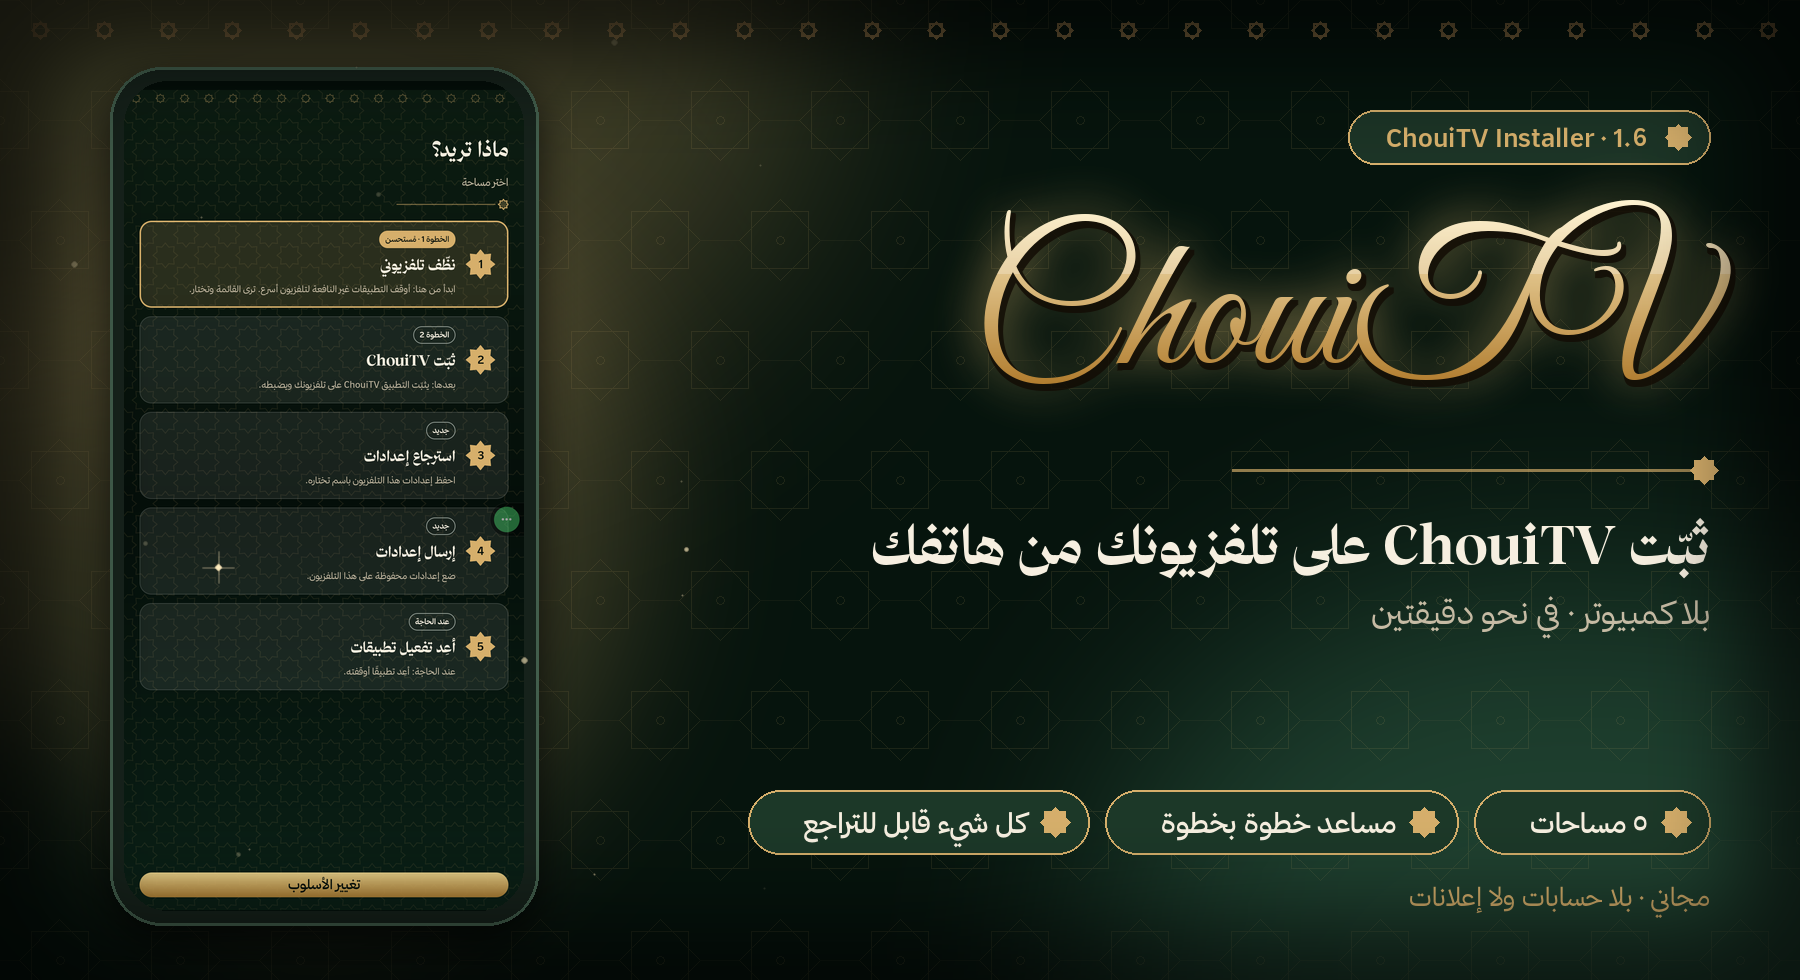
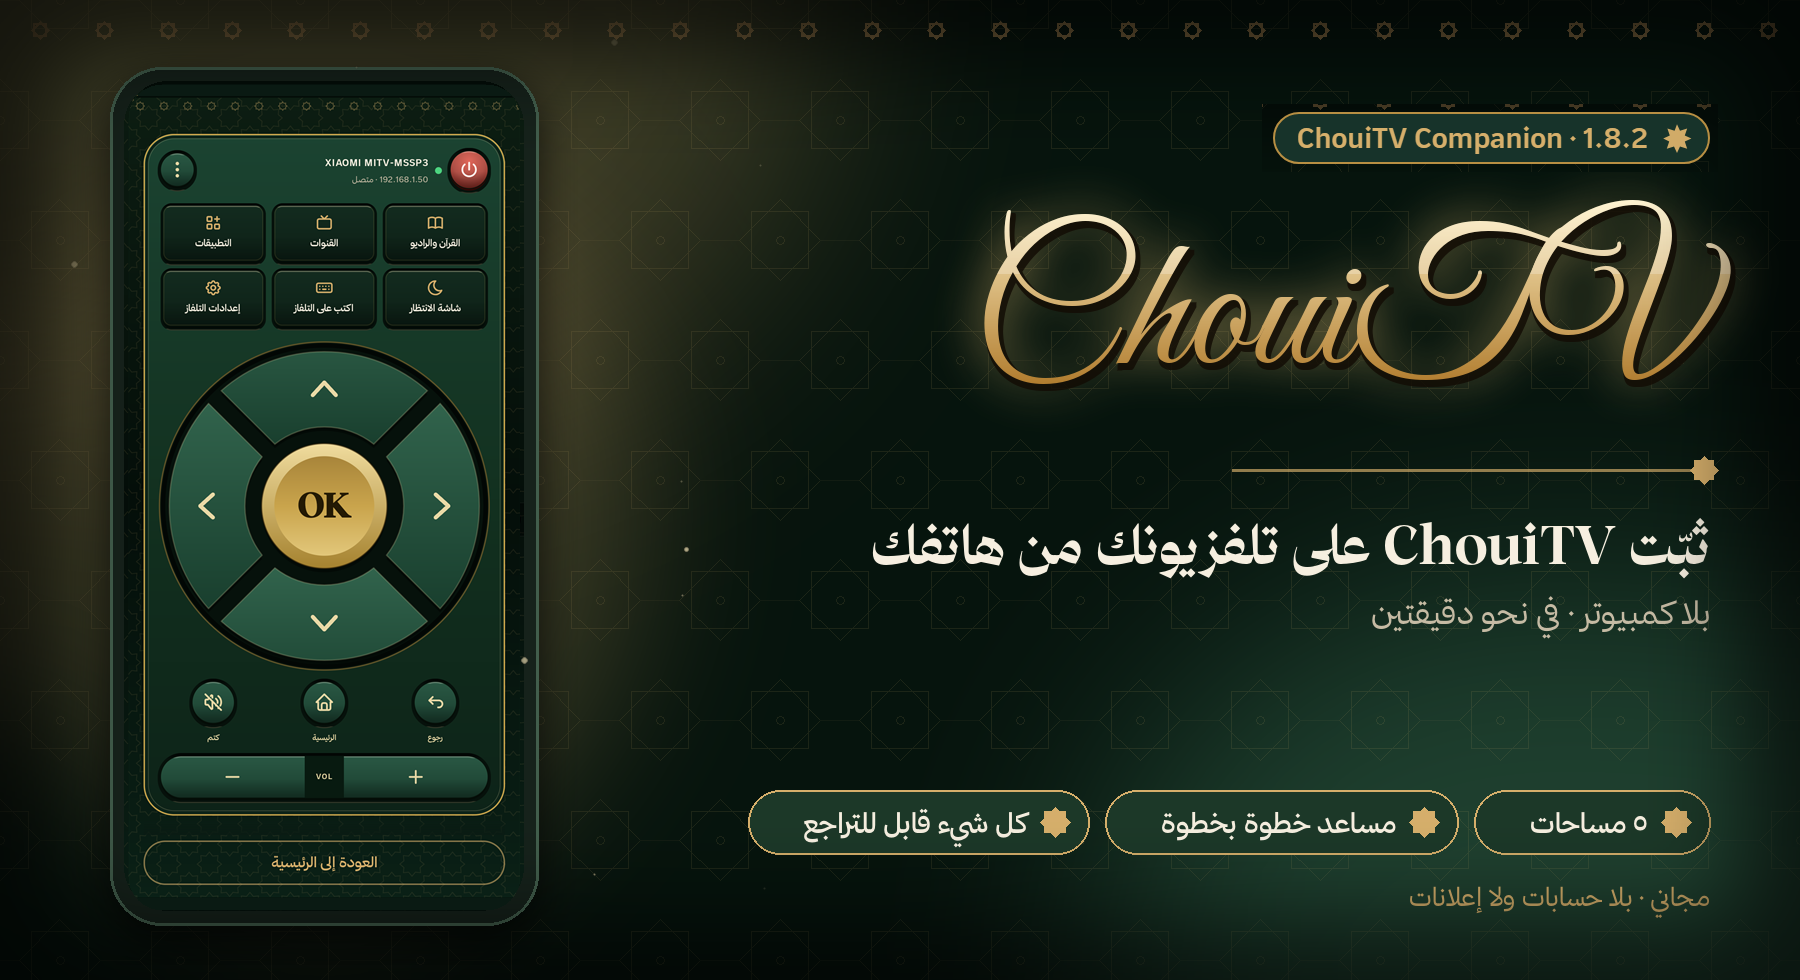
README: ChouiTV Companion name everywhere; new hero images (ar/fr/en) with the Companion pill and the real remote screenshot

Changed region(s): [[0.0622, 0.0918, 0.3111, 0.7347], [0.0622, 0.7653, 0.28, 0.9184], [0.6844, 0.0918, 0.9644, 0.1837]]

diff --git a/README.md b/README.md
@@ -1,6 +1,6 @@
-<p align="center"><img src="docs/media/logo.png" alt="ChouiTV Installer logo (Ch8TV)" width="132"></p>
+<p align="center"><img src="docs/media/logo.png" alt="ChouiTV Companion logo (Ch8TV)" width="132"></p>
 
-<p align="center"><a href="https://github.com/EMCHOUIT/ChouiTV-Installer/releases/latest/download/ChouiTV-Installer.apk"><img src="docs/media/hero-ar.png" alt="ChouiTV Installer: ثبّت ChouiTV على تلفزيونك من هاتفك" width="100%"></a></p>
+<p align="center"><a href="https://github.com/EMCHOUIT/ChouiTV-Installer/releases/latest/download/ChouiTV-Installer.apk"><img src="docs/media/hero-ar.png" alt="ChouiTV Companion: ثبّت ChouiTV على تلفزيونك من هاتفك" width="100%"></a></p>
 
 <p align="center"><b>🇲🇦 العربية</b> &nbsp;·&nbsp; <a href="README.fr.md">🇫🇷 Français</a> &nbsp;·&nbsp; <a href="README.en.md">🇬🇧 English</a></p>
 
@@ -17,7 +17,7 @@
 
 تطبيق صغير على هاتفك (**ChouiTV Companion**) يجد تلفزيونك، ويتحكّم فيه كجهاز تحكم، فينظّفه إن شئت، وينزّل **أحدث إصدار** من [ChouiTV](https://github.com/EMCHOUIT/ChouiTV) ويثبّته ويضبطه، ثم ينقل إعداداتك إلى تلفزيون آخر. **يرشدك خطوة بخطوة، أو تختار بنفسك. بلا كمبيوتر ولا أوامر.**
 
-<p align="center"><a href="https://github.com/EMCHOUIT/ChouiTV-Installer/releases/latest/download/ChouiTV-Installer.apk"><img src="https://img.shields.io/badge/%E2%AC%87%20نزّل%20ChouiTV%20Installer-D6AF6B?style=for-the-badge&labelColor=0A1D14" alt="download"></a><br><sub>لهاتف أندرويد 8 أو أحدث · الملف نحو 1 ميغابايت</sub></p>
+<p align="center"><a href="https://github.com/EMCHOUIT/ChouiTV-Installer/releases/latest/download/ChouiTV-Installer.apk"><img src="https://img.shields.io/badge/%E2%AC%87%20نزّل%20ChouiTV%20Companion-D6AF6B?style=for-the-badge&labelColor=0A1D14" alt="download"></a><br><sub>لهاتف أندرويد 8 أو أحدث · الملف نحو 1 ميغابايت</sub></p>
 
 > 🛡 **إن عرضت غوغل رسالة أمان** (Play Protect) عند فتح الملف فهذا طبيعي: التطبيق جديد وغير معروف عندها بعد. اختر **«التثبيت بدون فحص»**. التطبيق لا يطلب أي إذن حساس ولا يثبّت شيئًا على هاتفك، وإنما يرسل ChouiTV إلى تلفزيونك فقط.
 
@@ -309,7 +309,7 @@ cd ChouiTV-Installer
 <h3 align="center">التثبيت في ثلاث خطوات</h3>
 
 <table align="center" dir="rtl">
-<tr><td width="33%" valign="top" align="center">1⃣<br><br><b>نزّل</b> الملف <code>ChouiTV-Installer.apk</code> على هاتفك (الزر أعلاه، أو امسح الرمز من شاشة أخرى).</td><td width="33%" valign="top" align="center">2⃣<br><br><b>افتحه.</b> إن طلب أندرويد إذنًا فاسمح مرة واحدة للمتصفح أو لمدير الملفات بتثبيت التطبيقات. وقد يظهر تحذير «تطبيق غير معروف»: الشيفرة مفتوحة وتستطيع بناءها بنفسك (<a href="#build">البناء</a>).</td><td width="33%" valign="top" align="center">3⃣<br><br><b>افتح ChouiTV Installer</b> واتبع الخطوات.</td></tr>
+<tr><td width="33%" valign="top" align="center">1⃣<br><br><b>نزّل</b> الملف <code>ChouiTV-Installer.apk</code> على هاتفك (الزر أعلاه، أو امسح الرمز من شاشة أخرى).</td><td width="33%" valign="top" align="center">2⃣<br><br><b>افتحه.</b> إن طلب أندرويد إذنًا فاسمح مرة واحدة للمتصفح أو لمدير الملفات بتثبيت التطبيقات. وقد يظهر تحذير «تطبيق غير معروف»: الشيفرة مفتوحة وتستطيع بناءها بنفسك (<a href="#build">البناء</a>).</td><td width="33%" valign="top" align="center">3⃣<br><br><b>افتح ChouiTV Companion</b> واتبع الخطوات.</td></tr>
 </table>
 
 <div align="center">

diff --git a/README.en.md b/README.en.md
@@ -1,6 +1,6 @@
-<p align="center"><img src="docs/media/logo.png" alt="ChouiTV Installer logo (Ch8TV)" width="132"></p>
+<p align="center"><img src="docs/media/logo.png" alt="ChouiTV Companion logo (Ch8TV)" width="132"></p>
 
-<p align="center"><a href="https://github.com/EMCHOUIT/ChouiTV-Installer/releases/latest/download/ChouiTV-Installer.apk"><img src="docs/media/hero-en.png" alt="ChouiTV Installer: install ChouiTV on your TV from your phone" width="100%"></a></p>
+<p align="center"><a href="https://github.com/EMCHOUIT/ChouiTV-Installer/releases/latest/download/ChouiTV-Installer.apk"><img src="docs/media/hero-en.png" alt="ChouiTV Companion: install ChouiTV on your TV from your phone" width="100%"></a></p>
 
 <p align="center"><a href="README.md">🇲🇦 العربية</a> &nbsp;·&nbsp; <a href="README.fr.md">🇫🇷 Français</a> &nbsp;·&nbsp; <b>🇬🇧 English</b></p>
 
@@ -15,7 +15,7 @@
 
 A small app on your phone (**ChouiTV Companion**) that finds your TV, drives it like a remote, cleans it if you want, downloads the **latest version** of [ChouiTV](https://github.com/EMCHOUIT/ChouiTV), installs and sets it up, then copies your settings to another TV. **It guides you step by step, or you choose yourself. No computer, no commands.**
 
-<p align="center"><a href="https://github.com/EMCHOUIT/ChouiTV-Installer/releases/latest/download/ChouiTV-Installer.apk"><img src="https://img.shields.io/badge/%E2%AC%87%20Download%20ChouiTV%20Installer-D6AF6B?style=for-the-badge&labelColor=0A1D14" alt="download"></a><br><sub>For Android 8+ phones · about 1 MB</sub></p>
+<p align="center"><a href="https://github.com/EMCHOUIT/ChouiTV-Installer/releases/latest/download/ChouiTV-Installer.apk"><img src="https://img.shields.io/badge/%E2%AC%87%20Download%20ChouiTV%20Companion-D6AF6B?style=for-the-badge&labelColor=0A1D14" alt="download"></a><br><sub>For Android 8+ phones · about 1 MB</sub></p>
 
 > 🛡 **If Google shows a security message** (Play Protect) when you open the file, that is normal: the app is new and Google does not know it yet. Choose **"Install without scanning"**. It asks for no sensitive permission and installs nothing on your phone: it only sends ChouiTV to your TV.
 
@@ -283,7 +283,7 @@ The drawn images in `docs/media` (the "What's new" card, the 3.x to 4.0 diagram,
 <h3 align="center">Install in three steps</h3>
 
 <table align="center">
-<tr><td width="33%" valign="top" align="center">1⃣<br><br><b>Download</b> the <code>ChouiTV-Installer.apk</code> file on your phone (the button above, or the QR code from another screen).</td><td width="33%" valign="top" align="center">2⃣<br><br><b>Open it.</b> If Android asks for permission, allow your browser or file manager to install apps once. An "unknown app" warning may appear: the code is open and you can build it yourself (<a href="#build">Build</a>).</td><td width="33%" valign="top" align="center">3⃣<br><br><b>Open ChouiTV Installer</b> and follow the steps.</td></tr>
+<tr><td width="33%" valign="top" align="center">1⃣<br><br><b>Download</b> the <code>ChouiTV-Installer.apk</code> file on your phone (the button above, or the QR code from another screen).</td><td width="33%" valign="top" align="center">2⃣<br><br><b>Open it.</b> If Android asks for permission, allow your browser or file manager to install apps once. An "unknown app" warning may appear: the code is open and you can build it yourself (<a href="#build">Build</a>).</td><td width="33%" valign="top" align="center">3⃣<br><br><b>Open ChouiTV Companion</b> and follow the steps.</td></tr>
 </table>
 
 <div align="center">
